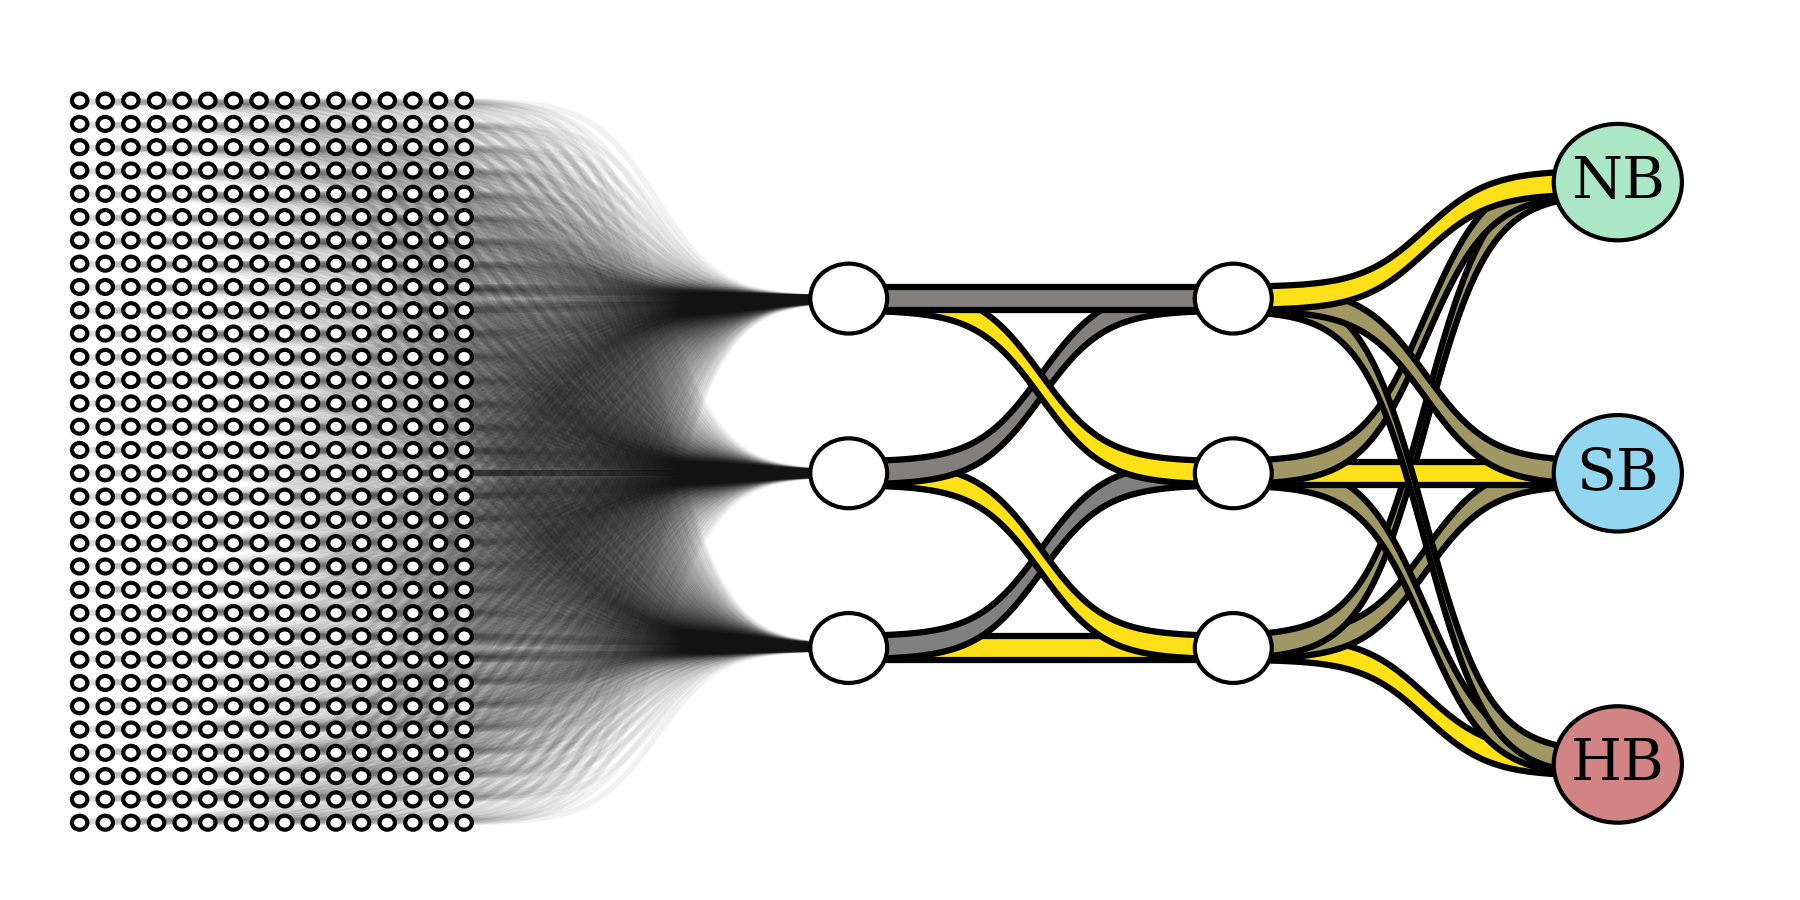
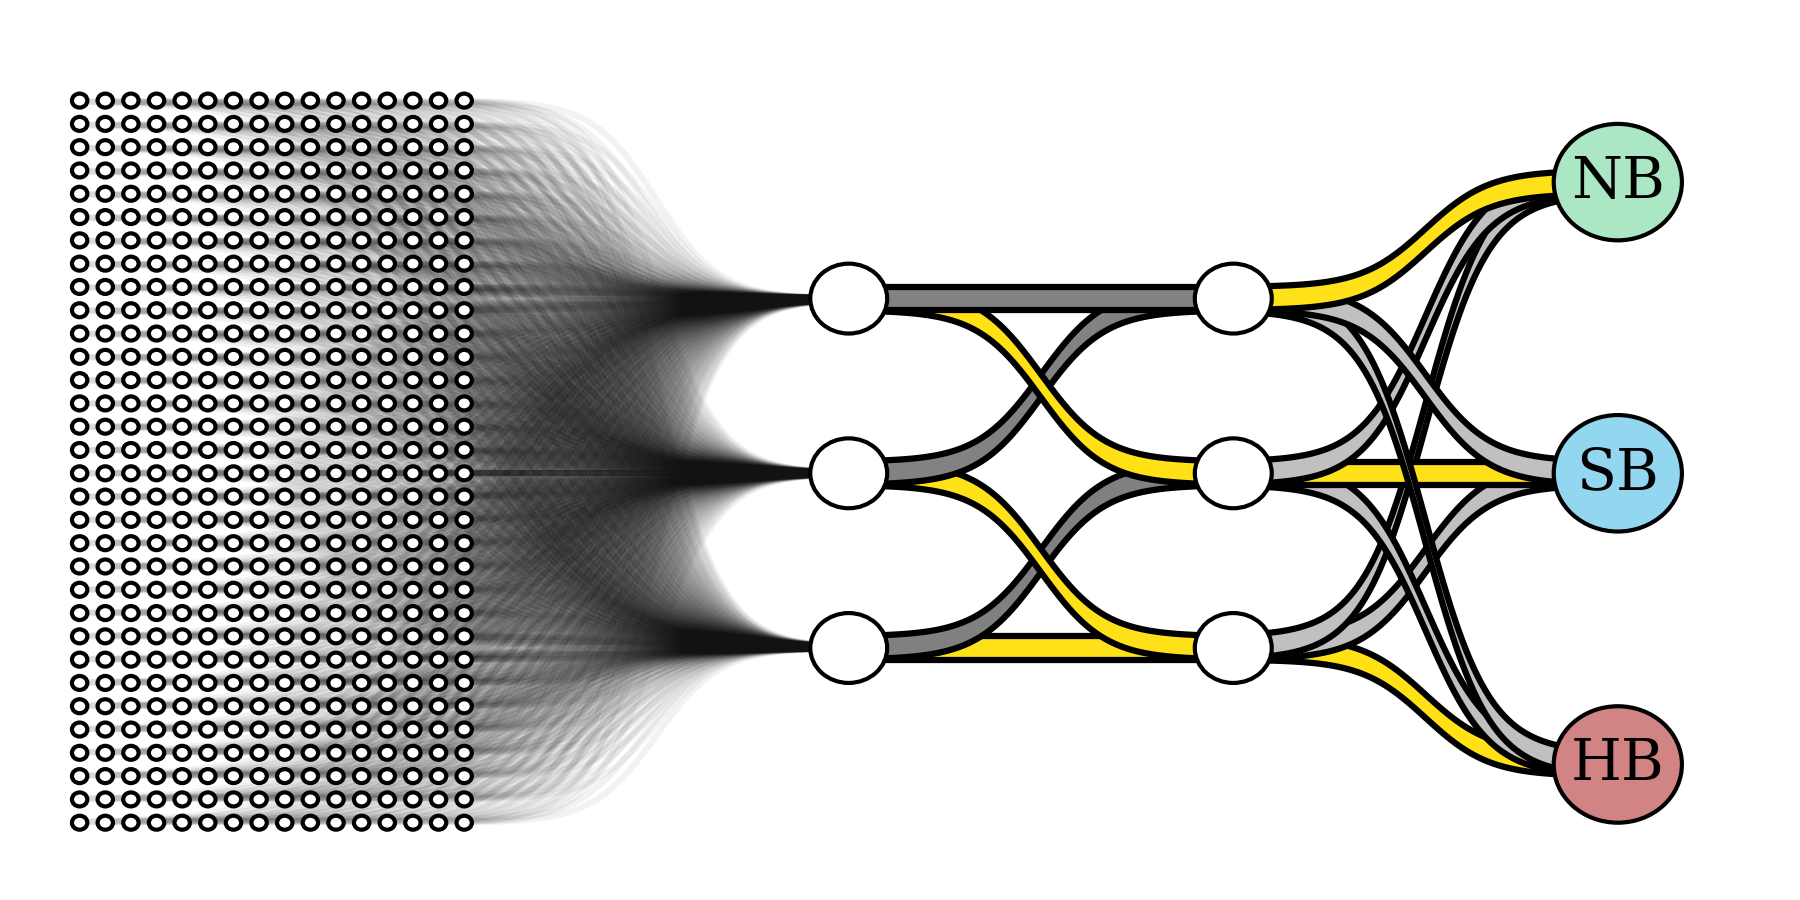
Finalized Network Visualization

diff --git a/scripts/NetworkVisualization.py b/scripts/NetworkVisualization.py
@@ -105,7 +105,9 @@ middleColorHex = "#FFFFFF" # White
 finalColorHex = "#ffe116" # Gold
 
 # Generate the color gradient
-colorGradient = cF.genColorGradient(initialColorHex, finalColorHex, 101)
+colorGradient1 = cF.genColorGradient(initialColorHex, middleColorHex, 50)
+colorGradient2 = cF.genColorGradient(middleColorHex, finalColorHex, 51)
+colorGradient = colorGradient1 + colorGradient2
 
 # Load the embeddings
 import numpy as np

diff --git a/utils/commonFunctions.py b/utils/commonFunctions.py
@@ -40,7 +40,6 @@ def getTruePosInds(_mdl, _x, _y, mdlType="enn", verbose="True"):
         print("True positive rate: {}/{}".format(len(_tpInds), len(_x)))
     return _tpInds
 
-# Let's make the above a helper function
 def loadNeuron(_nNeuron, _cellType, projDir="/project/greencenter/Lin_lab/s181641/bdENS/", branch="develop"):
     """
     Load neuron recordings from fJie dataset
